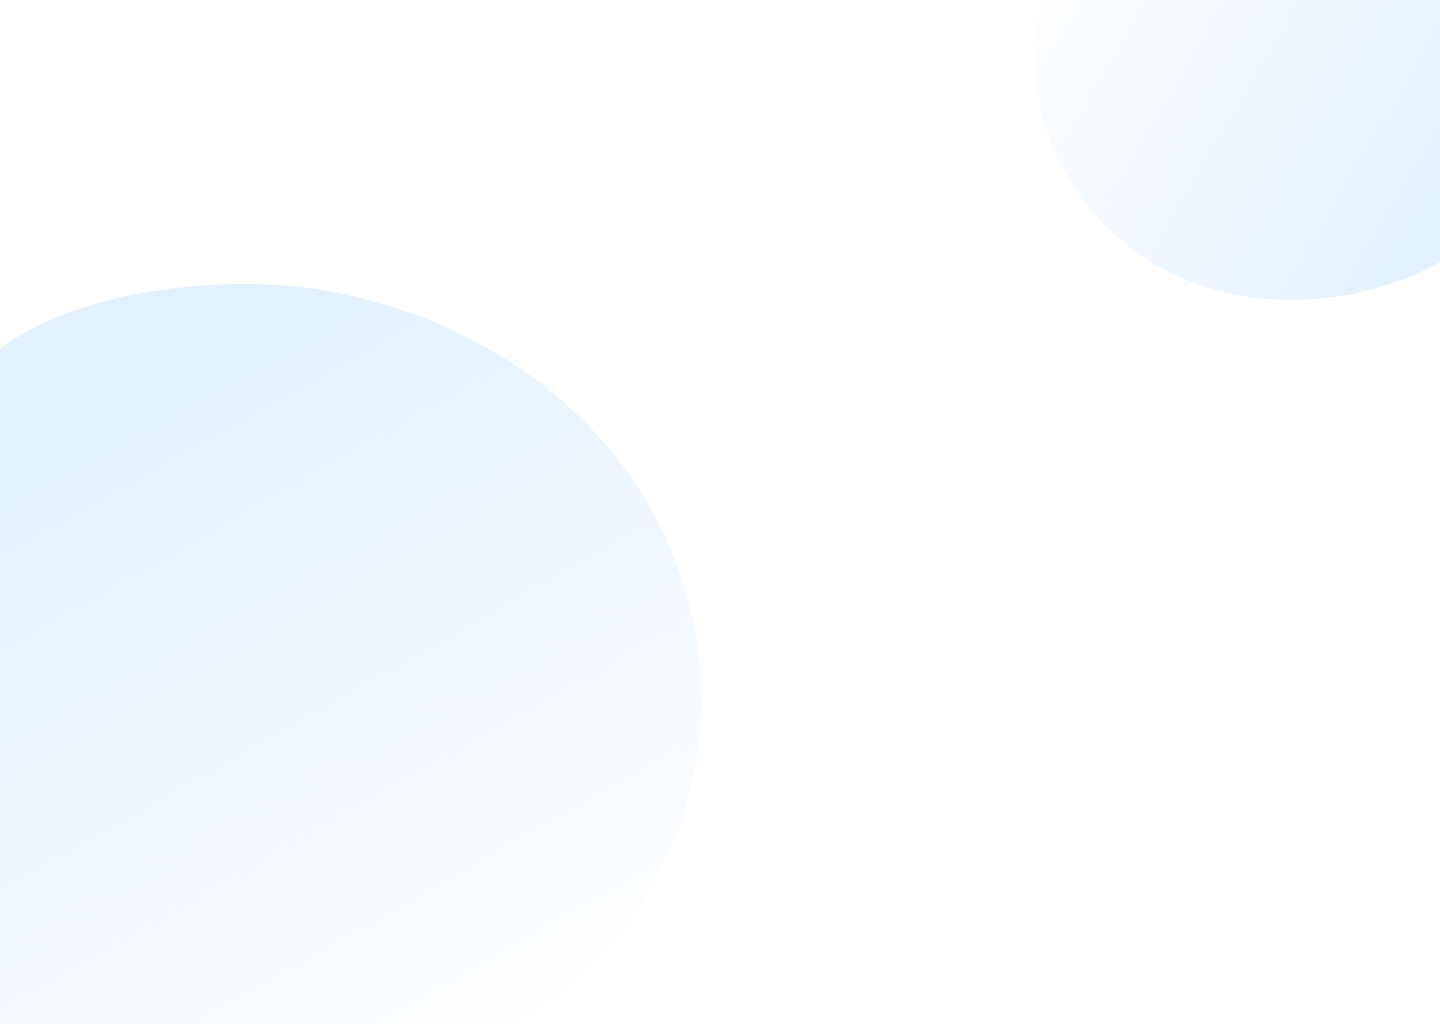
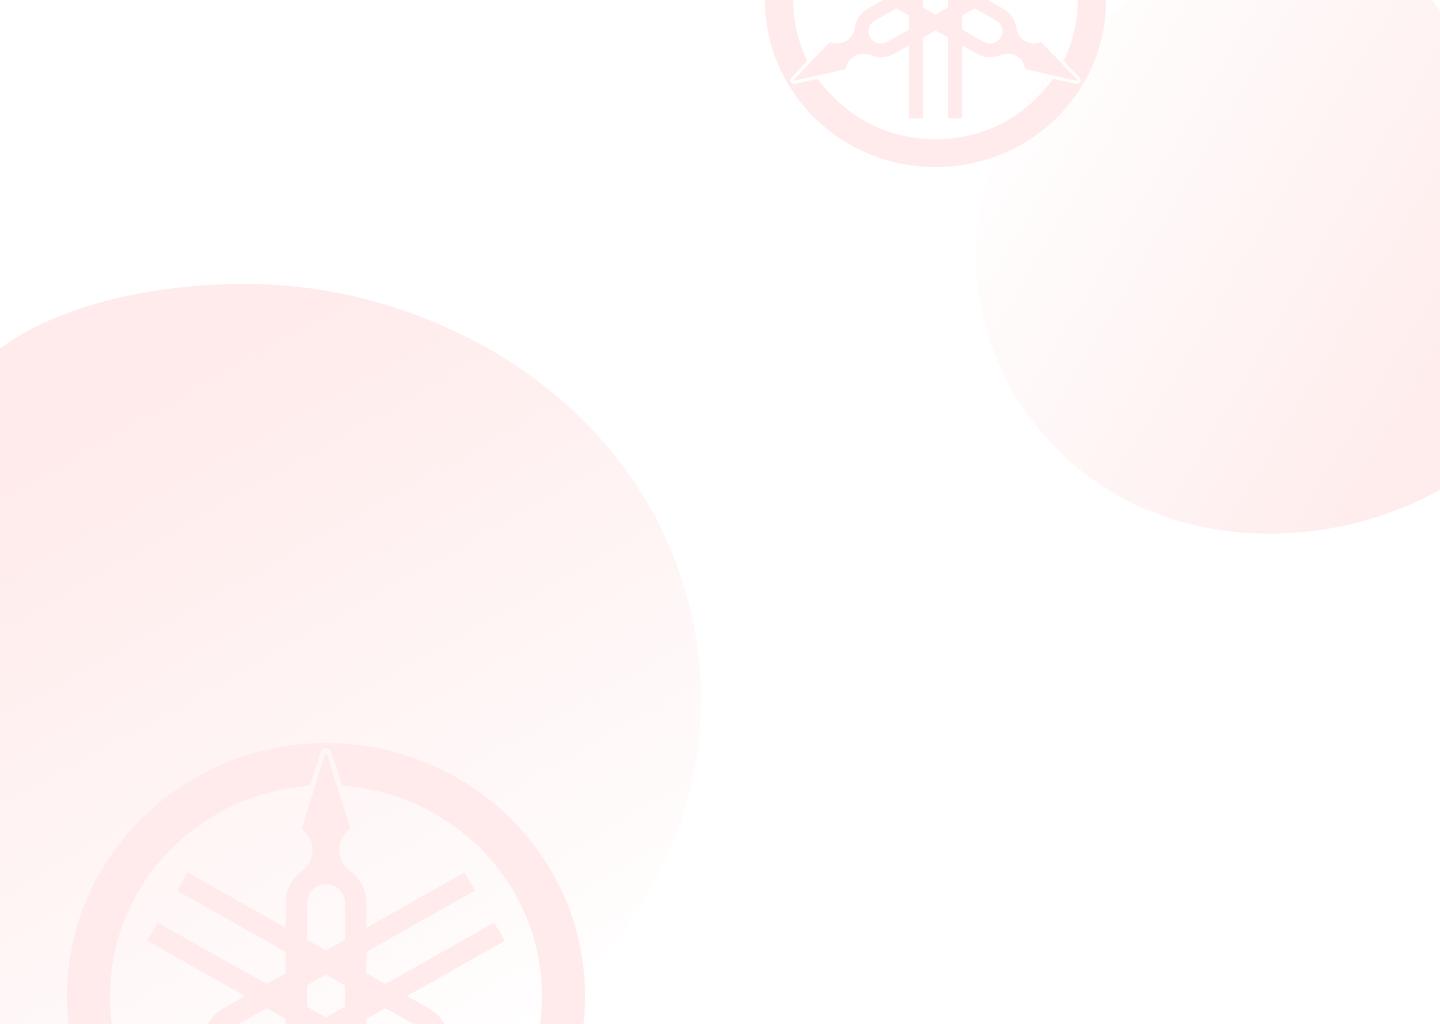
update logon

Changed region(s): [[0.0, 0.25, 0.3125, 0.5938], [0.9062, 0.0938, 1.0, 0.3125]]

diff --git a/login/resources/css/styles.css b/login/resources/css/styles.css
@@ -228,8 +228,8 @@ div#kc-header{
     height: 64px;
     margin: auto;
     background: url('../img/logo-yamaha.png');
-    background-size: contain;
     background-repeat: no-repeat;
+    background-size: contain;
     position: relative;
 }
 #kc-form-wrapper {
@@ -242,6 +242,7 @@ div#kc-header{
     padding: 145px 50px 50px;
     box-shadow: 0px 1.643070936203003px 6px 0px rgba(112, 144, 176, 0.15);
     margin-top: 30px;
+    border-radius: 16px;
 }
 #kc-form-login:before{
     content: 'Đăng nhập';
@@ -378,7 +379,7 @@ span.pf-m-error{
     text-align: center;
     height: 100%;
     line-height: 40px;
-    background: rgba(0, 82, 204, 1);
+    background: rgba(207, 31, 37, 1);
     text-shadow: none;
     font-size: 16px;
     letter-spacing: 0.5px;
@@ -398,7 +399,7 @@ span.pf-m-error{
     content: 'Quên mật khẩu?';
     display: block;
     text-indent: 0px;
-    color: rgba(9, 121, 253, 1);
+    color: rgba(33, 38, 51, 1);
     bottom: 0;
     position: absolute;
     z-index: 99;
@@ -413,6 +414,7 @@ span.pf-m-error{
     padding: 50px;
     box-shadow: 0px 1.643070936203003px 6px 0px rgba(112, 144, 176, 0.15);
     margin-top: 30px;
+    border-radius: 16px;
   }
 
   #kc-reset-password-form label[for="username"] {
@@ -435,6 +437,7 @@ span.pf-m-error{
     padding: 50px;
     box-shadow: 0px 1.643070936203003px 6px 0px rgba(112, 144, 176, 0.15);
     margin-top: 30px;
+    border-radius: 16px;
   }
 
 #kc-reset-password-form label[for="username"]::after {
@@ -447,7 +450,7 @@ span.pf-m-error{
     padding-right: 0px;
 }
 #kc-reset-password-form .login-pf-settings #kc-form-options a{
-    color: rgba(9, 121, 253, 1);
+    color: rgba(33, 38, 51, 1);
     text-shadow: none;
     font-size: 14px;
     margin-bottom: 10px;

diff --git a/account/resources/css/styles.css b/account/resources/css/styles.css
@@ -242,6 +242,7 @@ div#kc-header{
     padding: 145px 50px 50px;
     box-shadow: 0px 1.643070936203003px 6px 0px rgba(112, 144, 176, 0.15);
     margin-top: 30px;
+    border-radius: 16px;
 }
 #kc-form-login:before{
     content: 'Đăng nhập';
@@ -378,7 +379,7 @@ span.pf-m-error{
     text-align: center;
     height: 100%;
     line-height: 40px;
-    background: rgba(0, 82, 204, 1);
+    background: rgba(207, 31, 37, 1);
     text-shadow: none;
     font-size: 16px;
     letter-spacing: 0.5px;
@@ -398,7 +399,7 @@ span.pf-m-error{
     content: 'Quên mật khẩu?';
     display: block;
     text-indent: 0px;
-    color: rgba(9, 121, 253, 1);
+    color: rgba(33, 38, 51, 1);
     bottom: 0;
     position: absolute;
     z-index: 99;
@@ -413,6 +414,7 @@ span.pf-m-error{
     padding: 50px;
     box-shadow: 0px 1.643070936203003px 6px 0px rgba(112, 144, 176, 0.15);
     margin-top: 30px;
+    border-radius: 16px;
   }
 
   #kc-reset-password-form label[for="username"] {
@@ -435,6 +437,7 @@ span.pf-m-error{
     padding: 50px;
     box-shadow: 0px 1.643070936203003px 6px 0px rgba(112, 144, 176, 0.15);
     margin-top: 30px;
+    border-radius: 16px;
   }
 
 #kc-reset-password-form label[for="username"]::after {
@@ -447,7 +450,7 @@ span.pf-m-error{
     padding-right: 0px;
 }
 #kc-reset-password-form .login-pf-settings #kc-form-options a{
-    color: rgba(9, 121, 253, 1);
+    color: rgba(33, 38, 51, 1);
     text-shadow: none;
     font-size: 14px;
     margin-bottom: 10px;
